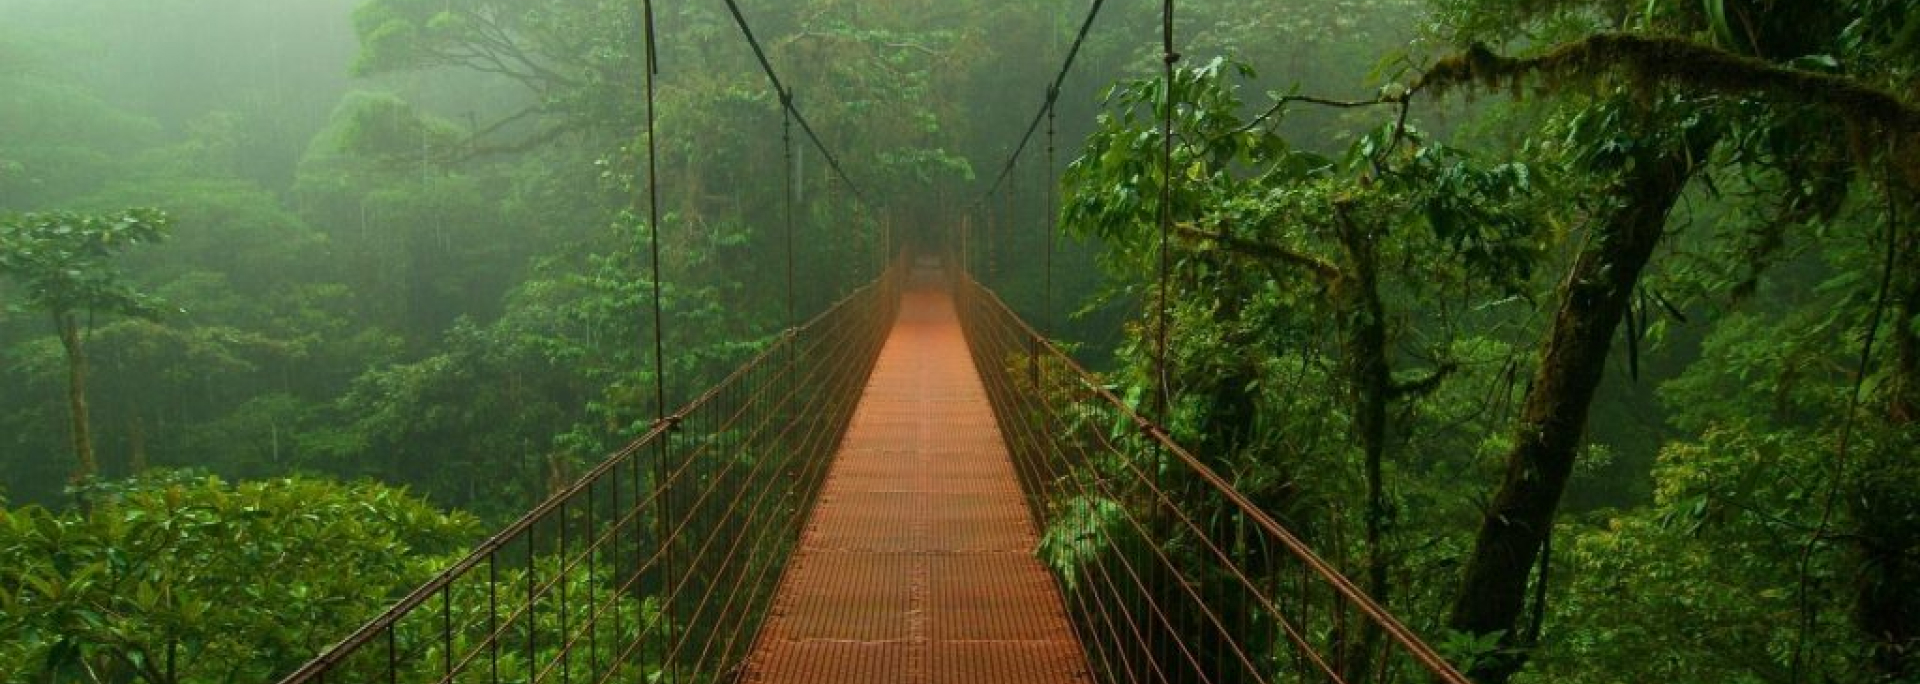
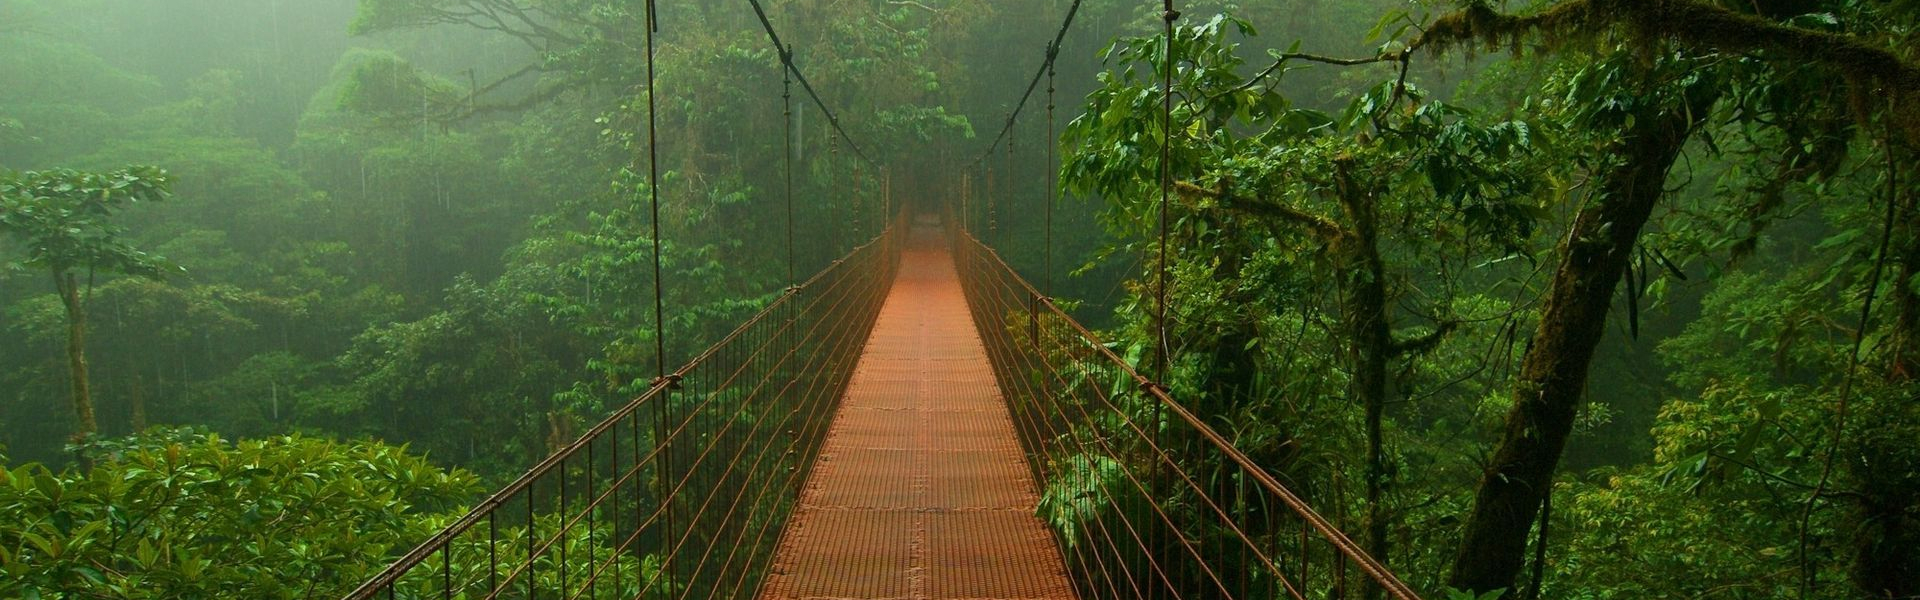
especially header-slider

diff --git a/app/assets/styles/modules/large-header.css b/app/assets/styles/modules/large-header.css
@@ -1,48 +1,54 @@
 /*large-headerR HEADER INDEX*/
-  .large-header{
-    width: 100%;
-    border-bottom: 15px solid #59B307;
-    position: relative;
-    background: red;
-    background-size: contain;
-    background-repeat: no-repeat;
-    height: 0;
-    padding-top: 31.25%;
-  }
-
-  .large-header img{
-    width: 100%;
-    height: 100%;
-  }
-  .large-header__image{
-    width: 100%;
-  }
-  .large-header__title{
-    font-size: 3.2rem;
-    width: 35rem;
-    margin: 0 auto;
-    font-weight: 400;
-  }
-  .large-header__description{
-    margin: 0 auto;
-    width: 26rem;
-    text-align: right;
-  }
-  .large-header__text-content {
-    position: absolute;
-    top: 50%;
-    -webkit-transform: translateY(-50%);
-            transform: translateY(-50%);
-    left: 0;
-    width: 100%;
-    text-align: center;
-    color: #fff;
-  }
 
 .large-header__container{
   width: 100%;
+  height: 600px;
   overflow: hidden;
   position: relative;
+  border-bottom: 3px solid #65B330;
+}
+
+  .large-header{
+    width: 100%;
+    height: 600px;
+    color: #fff;
+    background: url("./background-images/Jungle__Header-01.jpg");
+    background-size: auto;
+    background-repeat: no-repeat;
+    position: relative;
+  }
+
+  .large-header__text-content {
+    position: absolute;
+
+    top: 40%;
+    left: 50%;
+    -webkit-transform: translateX(-50%);
+            transform: translateX()(-50%);
+    width: 40%;
+    text-align: center;
+    color: #fff;
+  }
+  .large-header__text-content h2{
+    font-weight: 400;
+    font-size: 3.2em;
+    margin: 0;
+  }
+
+  .large-header__sub-title{
+    width: 80%;
+    text-align: right;
+  }
+
+
+.slide-02{
+    background: url("./background-images/Jungle__Header-02.jpg");
+}
+.slide-03{
+      background: url("./background-images/Jungle__Header-03.jpg");
+}
+.slide-04{
+      background: url("./background-images/Jungle__Header-04.jpg");
 }
 
 .large-header__slide{
@@ -58,21 +64,27 @@
     position: absolute;
     left: 0;
     bottom: 0;
-    background: #09f;
-    z-index: 10;
+    background: #59b307;
+    z-index: 1;
   }
-
-
+  .large-header__italic{
+font-style: italic; font-weight: 900;
+}
 
     @media (max-width: 800px){
-  .large-header__title{
+  .large-header__text-content h2{
     font-size: 1em;
-    width: 80%;;
+    width: 50%;;
   }
-  .large-header__description{
-    margin: 0 auto;
-    width: 55%;
-    text-align: right;
-    font-size: .5em;
+  .large-header__container{
+    height: 200px;
+  }
+  .large-header__text-content {
+    top: 10%;
+    left: 60%;
+
+    width: 50%;
+    text-align: center;
+    color: #fff;
   }
 }

diff --git a/app/index.html b/app/index.html
@@ -43,30 +43,40 @@
     </header>
 
 
-<div id="" class="large-header__container">
+
+
+
+<div class="large-header__container">
   <div class="timer"></div>
-  <div class="large-header-wrapper">
-    <div class="large-header large-header__slide">
-      <div class="large-header__text-content">
-        <div class="wrapper">
-          <h1 class="large-header__title">Transformation for a <strong style="font-style: italic;">prosperous</strong> world</h1>
-          <p class="large-header__description">Don't fear the Blockchain.</p>
+    <div class="large-header-wrapper">
+      <div style="text-align: center;" class="large-header large-header__slide slide-01">
+        <div class="large-header__text-content">
+          <h2>Transformation for a <span class="large-header__italic">prosperous</span> world</h2>
+          <div class="large-header__sub-title">Don't fear the Blockchain</div>
         </div>
       </div>
-    </div>
-
-
-    <div class="large-header large-header__slide">
-      <div class="large-header__text-content">
-        <div class="wrapper">
-          <h1 class="large-header__title">Transformation for a <strong style="font-style: italic;">prosperous</strong> world</h1>
-          <p class="large-header__description">Don't fear the Blockchain.</p>
+      <div style="" class="large-header large-header__slide slide-02">
+        <div class="large-header__text-content">
+          <h2>"The <span class="large-header__italic">Blockchain</span> Technoloy is a perspective"</h2>
+          <div class="large-header__sub-title">Steve Bannon</div>
         </div>
       </div>
-    </div>
+      <div style="" class="large-header large-header__slide slide-03">
+        <div class="large-header__text-content">
+          <h2>Learning is the <span class="large-header__italic">beginnng</span> to win</h2>
+          <div class="large-header__sub-title">Steve Jobs</div>
+        </div>
+      </div>
+      <div style="" class="large-header large-header__slide slide-04">
+        <div class="large-header__text-content">
+          <h2>Offering all <span class="large-header__italic">products</span> you need to understand</h2>
+          <div class="large-header__sub-title">taught by experts</div>
+        </div>
+      </div>
+  </div>
 </div>
+
 <div class="clearfix">
-</div>
 </div>
     <div class="main-content">
       <div class="wrapper">

diff --git a/app/assets/scripts/slider.js b/app/assets/scripts/slider.js
@@ -1,21 +1,21 @@
 $(function() {
 
     // slider type
-    $t = "slide"; // opitions are fade and slide
+    $t = "fade"; // opitions are fade and slide
 
   	//variables
-    $f = 1000,  // fade in/out speed
-    $s = 1000,  // slide transition speed (for sliding carousel)
-    $d = 5000;  // duration per slide
+    $f = 4500,  // fade in/out speed
+    $s = 2000,  // slide transition speed (for sliding carousel)
+    $d = 20000;  // duration per slide
 
     $n = $('.large-header__slide').length; //number of slides
     $w = $('.large-header__slide').width(); // slide width
-  	$c = $('.container').width(); // container width
+  	$c = $('.large-header__container').width(); // container width
    	$ss = $n * $w; // slideshow width
 
 
       function timer() {
-        $('.timer').animate({"width":$w}, $d);
+        $('.timer').animate({"width":$c}, $d);
         $('.timer').animate({"width":0}, 0);
     }
 
@@ -63,14 +63,14 @@ $(function() {
             'width' : $ss // set width of slideshow container
         }
         $('.large-header__slide').css(setSlideCSS);
-        $('.slideshow').css(setSlideShowCSS);
+        $('.large-header-wrapper').css(setSlideShowCSS);
 
 
         setInterval(function() {
             timer();
             $('.large-header-wrapper').animate({"left": -$w}, $s, function(){
                 // to create infinite loop
-                $('.large-header-wrapper').css('left',0).append( $('.slide:first'));
+                $('.large-header-wrapper').css('left',0).append( $('.large-header__slide:first'));
             });
         }, $d);
 
